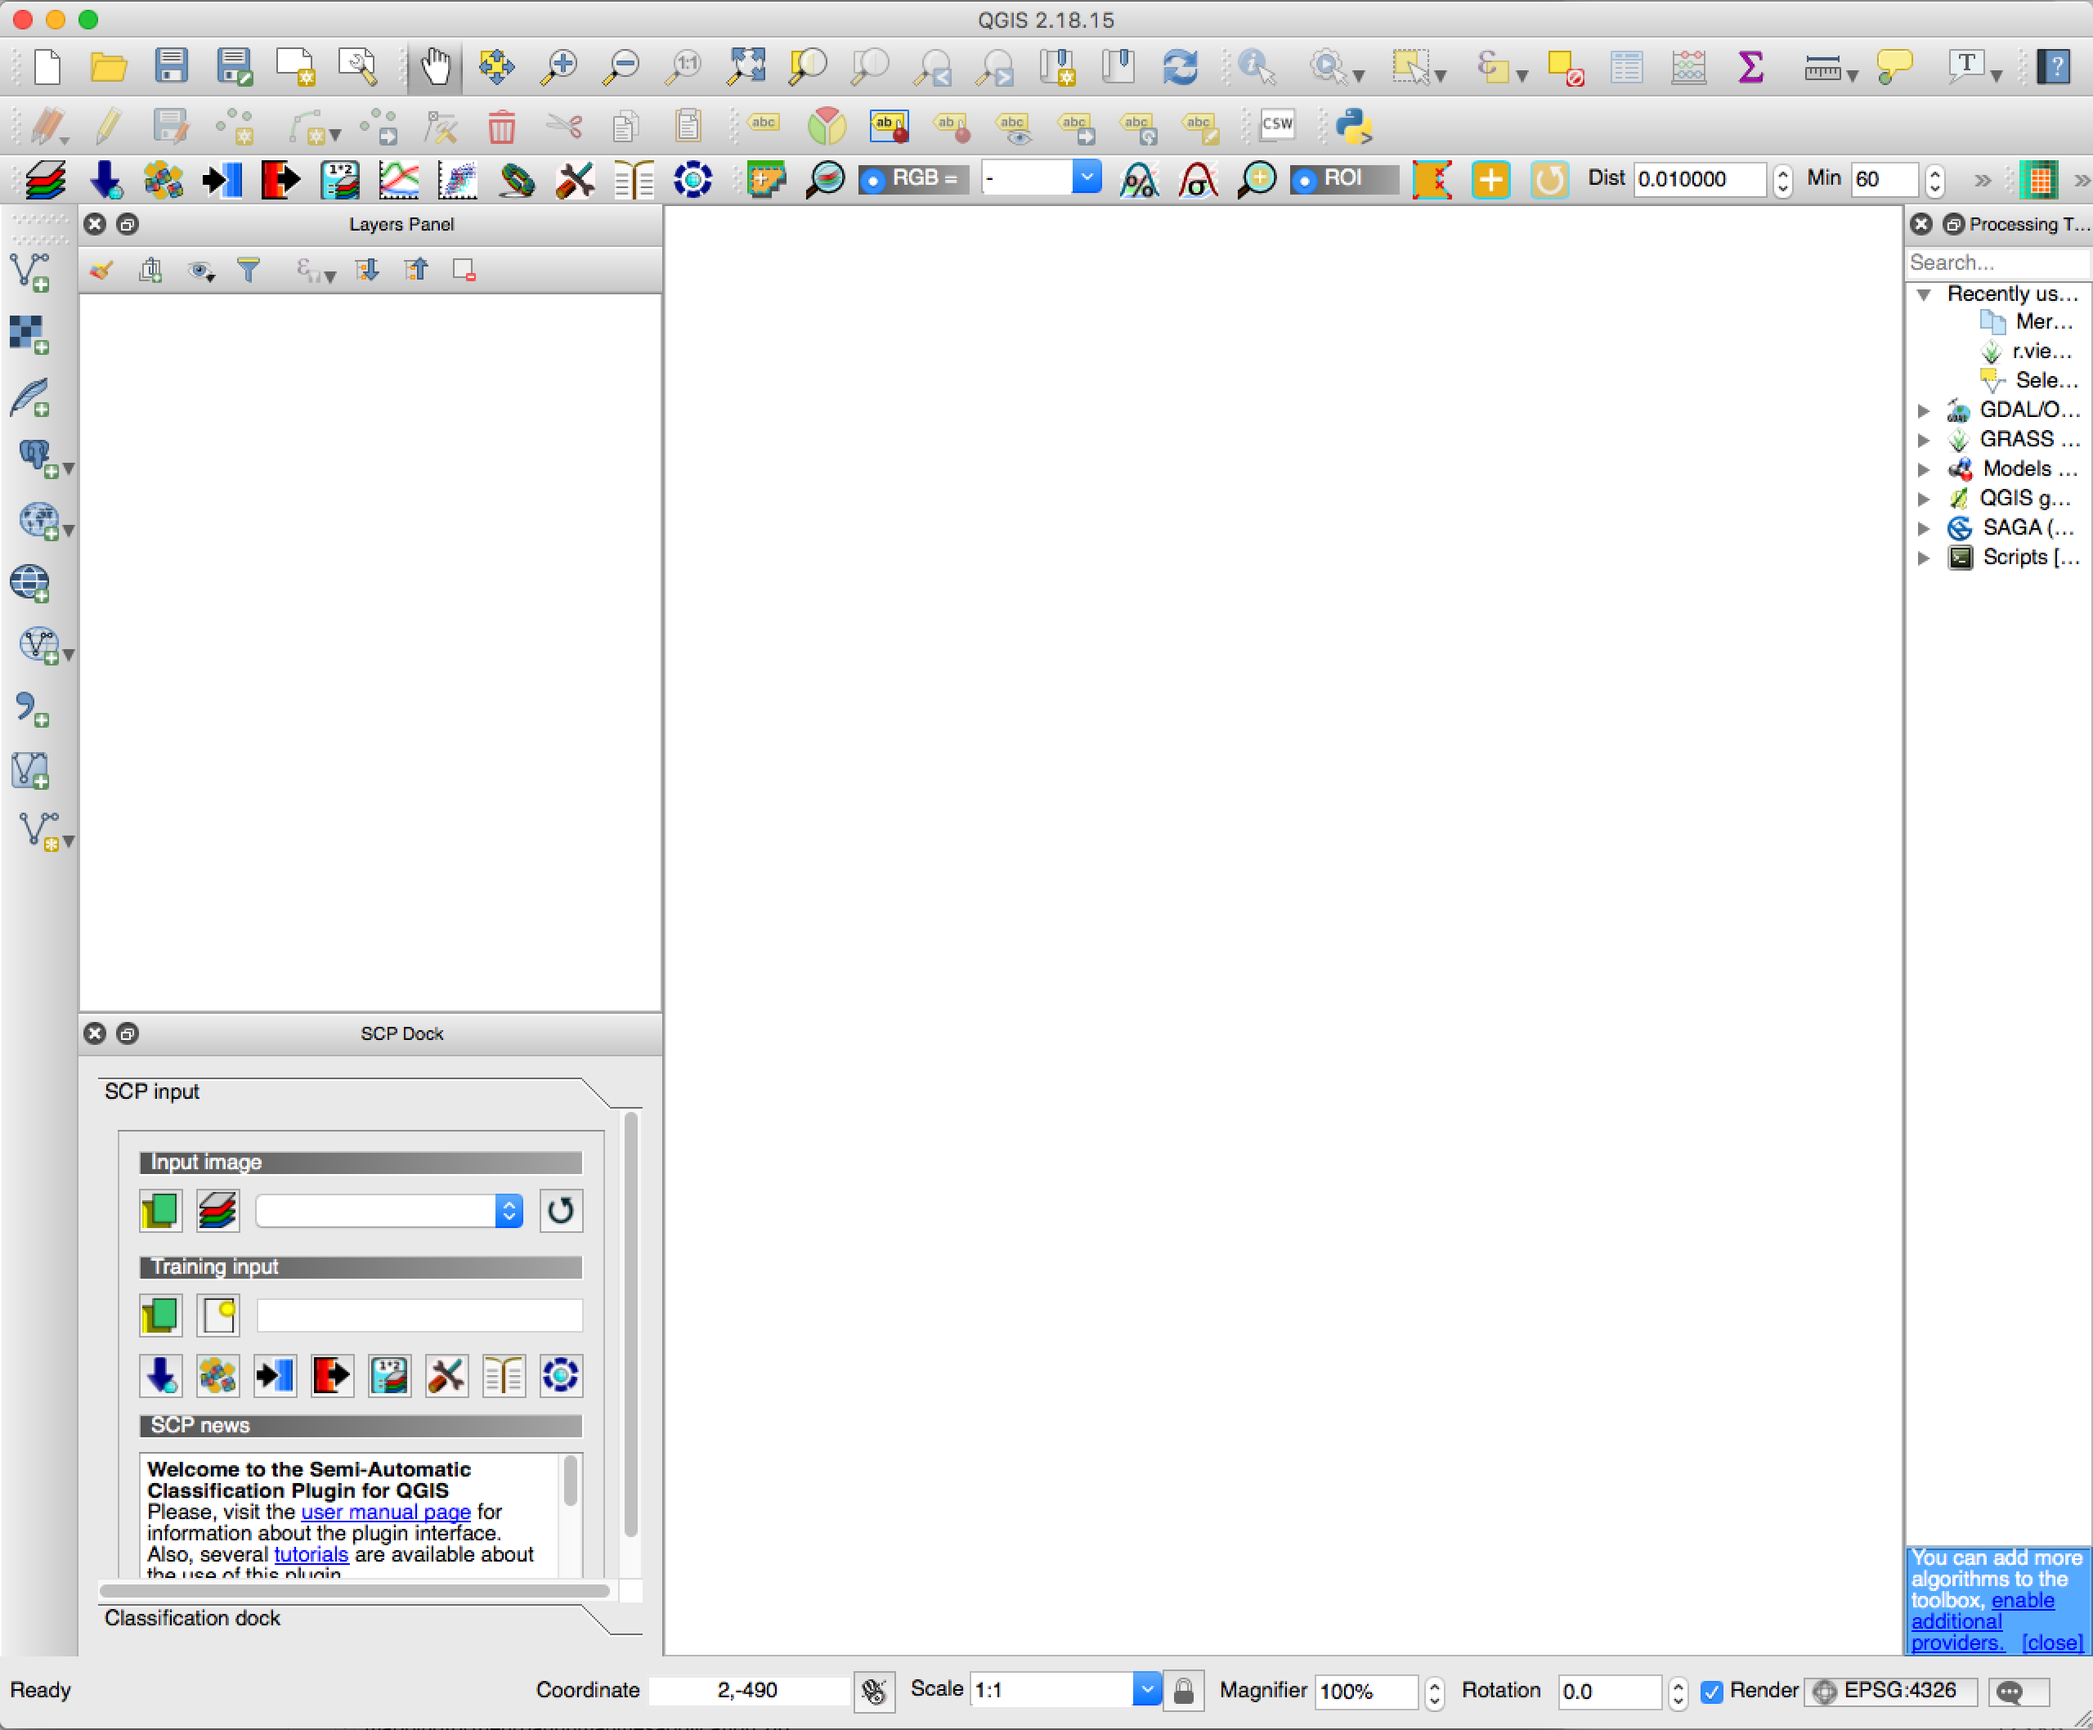
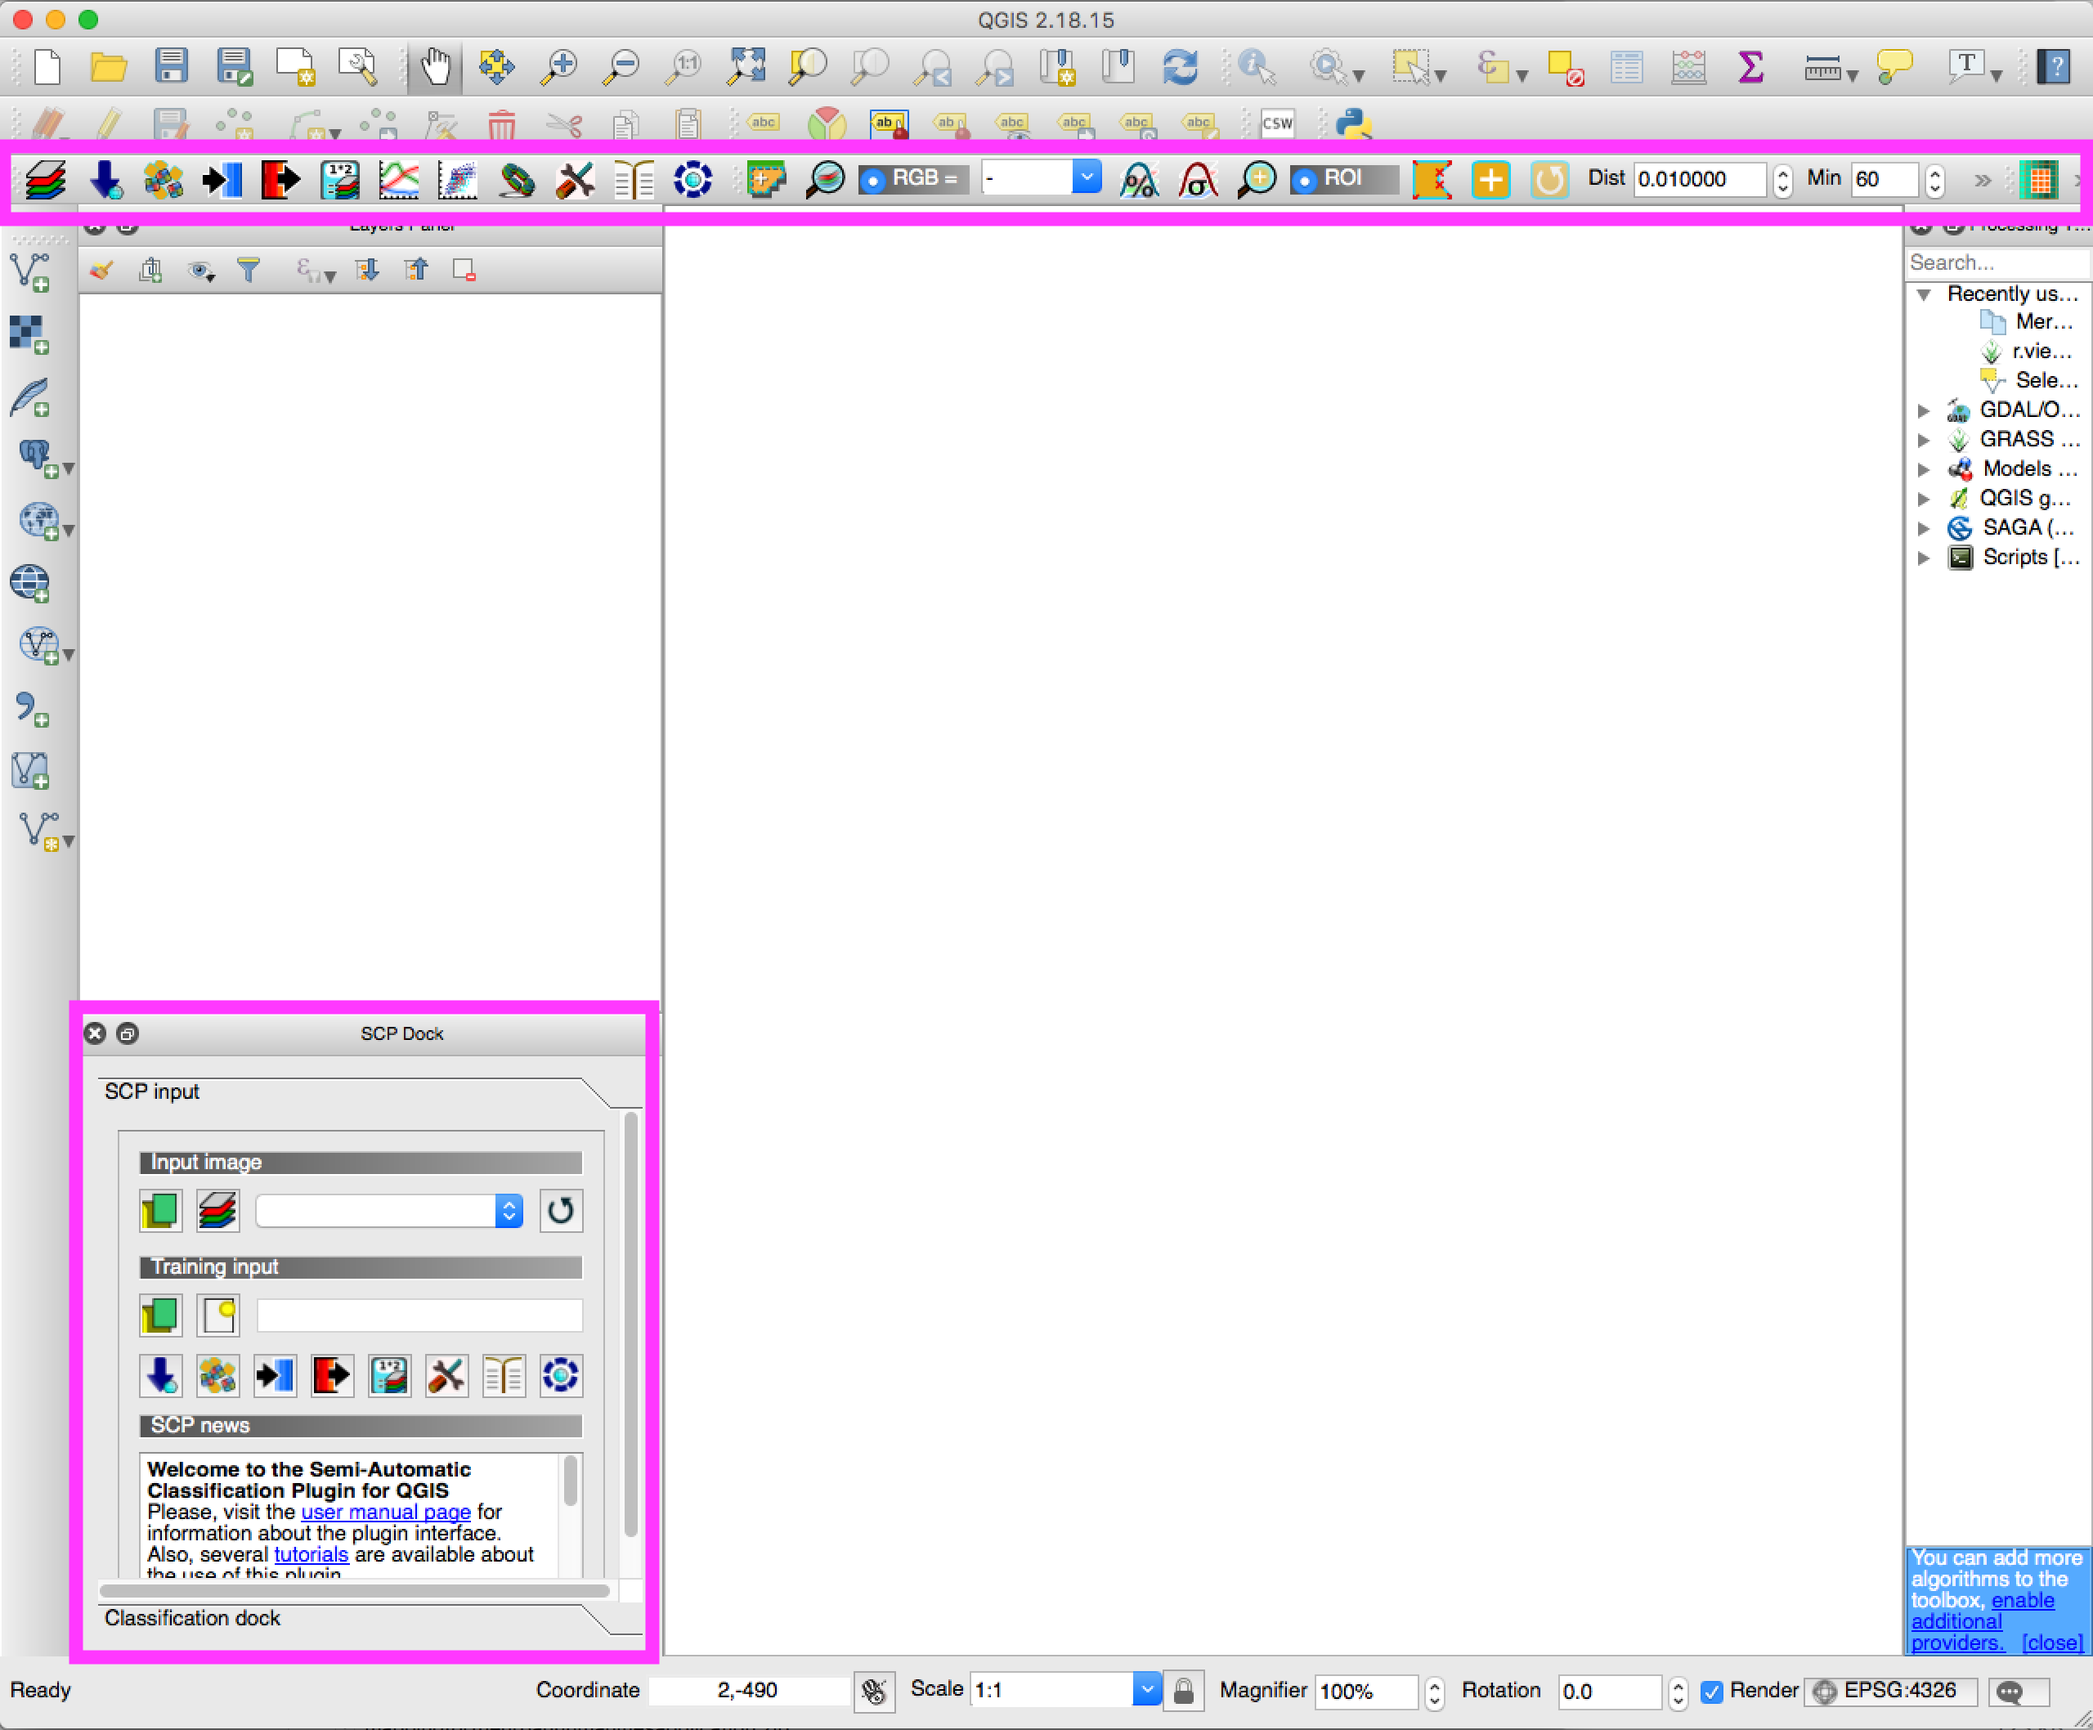
highlights

Changed region(s): [[0.0, 0.0624, 1.0, 0.156], [0.0312, 0.5614, 0.3125, 0.9669]]

diff --git a/03_UsingSatelliteImagery.md b/03_UsingSatelliteImagery.md
@@ -84,7 +84,8 @@ The SCP plugin provides a number of tools related to satellite image processing 
 2. Search for and install the `Semi-Automatic Classification Plugin`
 3. When the plugin has finished installing make sure the check box next to the plugin's name is checked and select `Close`.
 ![install](https://github.com/CenterForSpatialResearch/ConflictUrbanismPuertoRicoNow_Tutorials/blob/master/Images/Satellite01.png)
-4. A new toolbar and dock should have been added to your QGIS window.
+4. A new toolbar and dock should have been added to your QGIS window. The are highlighted below in magenta. If these did not open for you, right click anywhere inside one of the grey toolbars surrounding the map canvas and select `SCP Dock` in the panels section, and `SCP Tools` and `SCP toolbar` in the toolbars section.
+
 ![dock](https://github.com/CenterForSpatialResearch/ConflictUrbanismPuertoRicoNow_Tutorials/blob/master/Images/satellite02.png)
 
 #### Next we will load the Landsat data we just downloaded and **create a "Band Set"** to make color composites from this data.
@@ -114,8 +115,12 @@ The SCP plugin provides a number of tools related to satellite image processing 
 10. Select the Band set layer as the `Input image` in the SCP Dock.
     - *note* you may need to click the refresh icon next to the input image dropdown menu
 ![Input](https://github.com/CenterForSpatialResearch/ConflictUrbanismPuertoRicoNow_Tutorials/blob/master/Images/satellite05.png)
-11. Use the `RBG` tool to set your desired band combination. This tool tells the program which band it should map to the red, green, or blue band of a standard RBG image. Setting band 3 and Red, band 2, as Blue, and band 1 as Green will show a `natural color` image whose colors are similar to what we are familiar with. This combination is similar to what we see with the naked eye because it uses the bands that capture electromagnetic wavelengths in the visible light spectrum.
+
+11. Next, on the `SCP Toolbar` use the `RBG` tool *(highlighted below in magenta)* to set your desired band combination. 
+
+This tool tells the program which band it should map to the red, green, or blue band of a standard RBG image. Setting band 3 and Red, band 2, as Blue, and band 1 as Green will show a `natural color` image whose colors are similar to what we are familiar with. This combination is similar to what we see with the naked eye because it uses the bands that capture electromagnetic wavelengths in the visible light spectrum.
     - Further information about band combinations and the kinds of phenomena they make visible can be found [here](http://web.pdx.edu/~emch/ip1/bandcombinations.html). Take a look through this webpage and try out combinations that are interesting to you.
+
 ![RGB](https://github.com/CenterForSpatialResearch/ConflictUrbanismPuertoRicoNow_Tutorials/blob/master/Images/satellite08.png)
 
 A color composite using `3-2-1` for a 'natural color' image:  
@@ -148,4 +153,4 @@ You can choose to upload one for each Landsat dataset we downloaded (September 1
 If you are interested in learning how to make land use classifications based on Landsat satellite imagery you can follow [this](https://pointsunknown.nyc/tutorials/05_ChangeMapping.html#classification) tutorial written by CSR Research Scholar Grga Basic for *Points Unknown*.
 _________________________________________________________________________________________________
 
-Tutorial written by Dare Brawley, for *Conflict Urbanism: Puerto Rico Now*, a spring 2019 seminar offered by the [Center for Spatial Research](http://c4sr.columbia.edu) (With thanks to Grga Basic for guidance on working with Landsat imagery in QGIS). More information about the course is available [here](http://c4sr.columbia.edu/courses/conflict-urbanism-puerto-rico-now). 
+Tutorial written by Dare Brawley, for *Conflict Urbanism: Puerto Rico Now*, a spring 2019 seminar offered by the [Center for Spatial Research](http://c4sr.columbia.edu) (With thanks to Grga Basic for guidance on working with Landsat imagery in QGIS). More information about the course is available [here](http://c4sr.columbia.edu/courses/conflict-urbanism-puerto-rico-now).

diff --git a/README.md b/README.md
@@ -22,7 +22,7 @@ This module will introduce students to methods for creating spatial data. The ex
 **[3. Satellite Imagery](https://github.com/CenterForSpatialResearch/ConflictUrbanismPuertoRicoNow_Tutorials/blob/master/03_UsingSatelliteImagery.md)**  
 February 15, 11am-1pm, 208b Butler Library (Studio@Butler)  
 Exercise due February March 1  
-This module will cover methods for obtaining low resolution satellite imagery from the Landsat Program. The workshop and exercise will cover the difference between these two types of remotely sensed data as well as methods for creating false color composites.
+This module will cover methods for obtaining low resolution satellite imagery from the Landsat Program. The workshop and exercise will introduce key functions of multispectral satellite imagery, and to the process of visualizing phenomena through 'false color composites.'
 
 **4. Web Mapping 01**  
 February 22, 11am-1pm, 208b Butler Library (Studio@Butler)  
